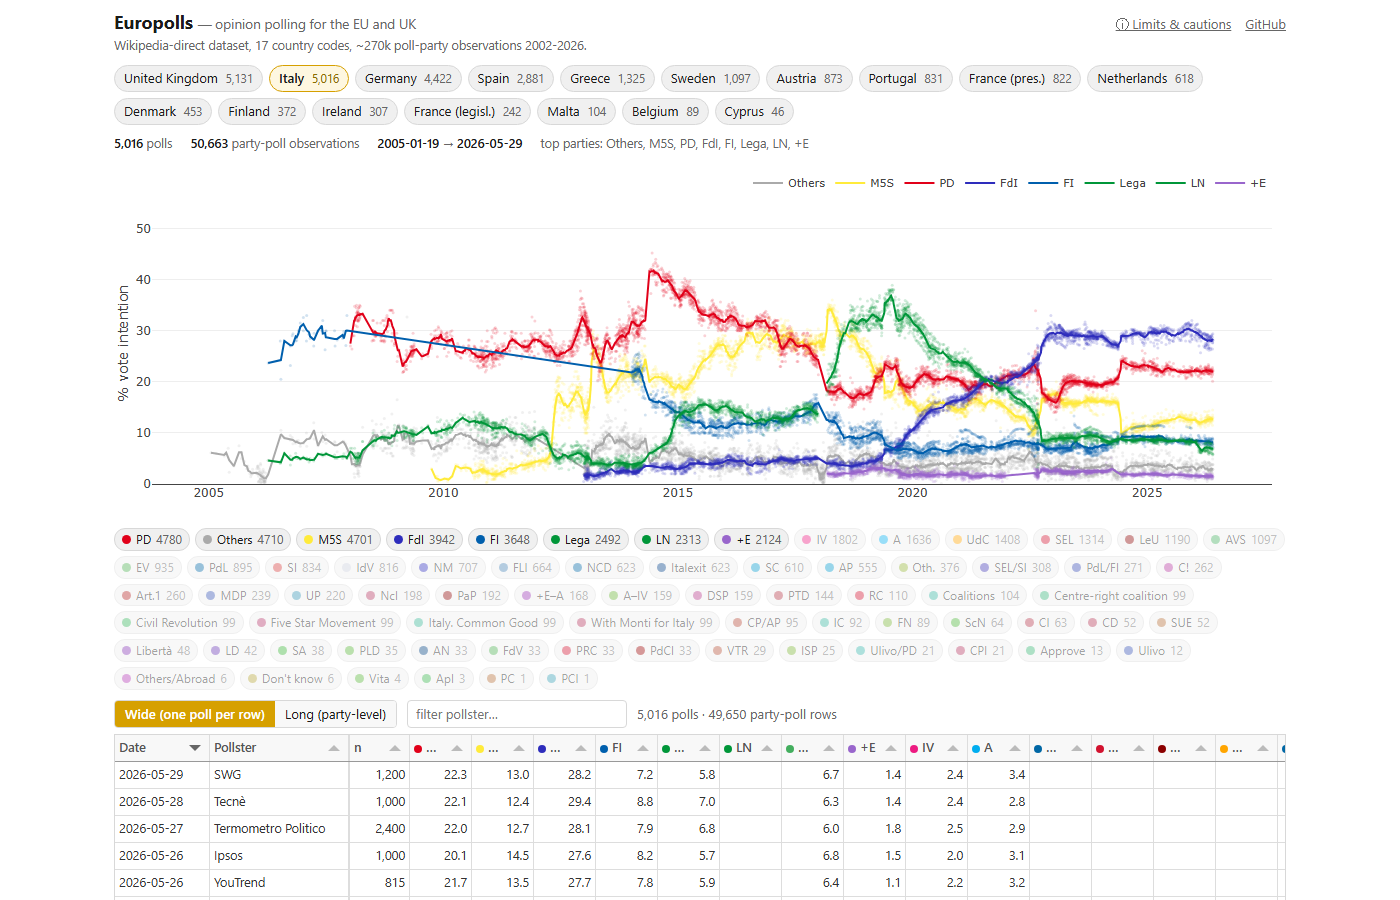
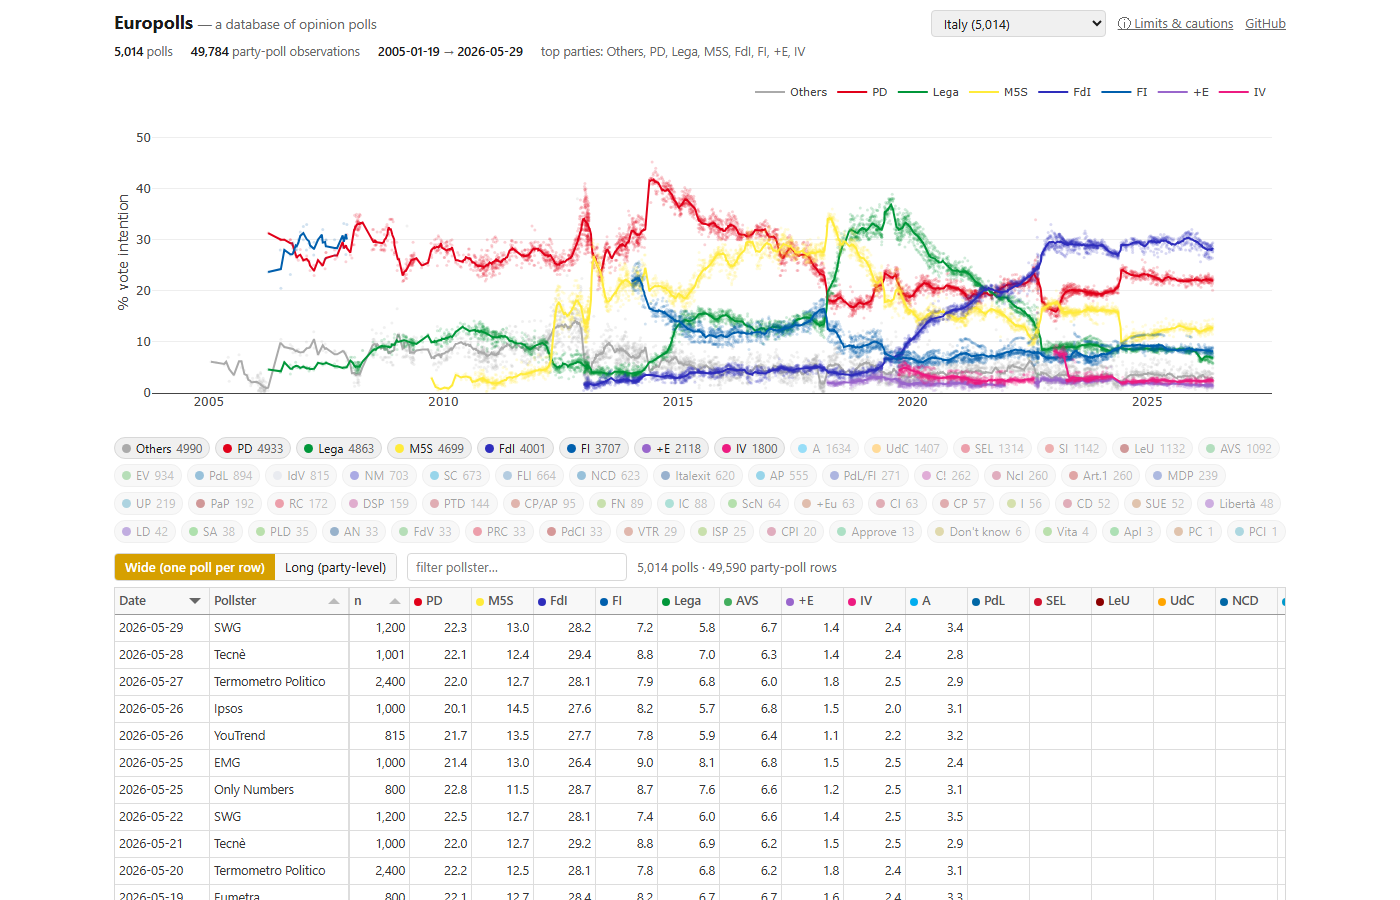
projects: refresh europolls blurb and screenshot
Updated to reflect expanded coverage (32 countries, ~33k polls, ~296k
party-poll observations) and Party Facts harmonization.

diff --git a/projects.md b/projects.md
@@ -12,7 +12,7 @@ permalink: /projects
   </div>
   <div class="project-body">
     <h2>europolls</h2>
-    <p>Browser-based dataset of national voting-intention polls for EU member states and the UK, built directly from Wikipedia's per-country poll tables. Roughly 270k poll-party observations across 17 country codes spanning 2002–2026, exposed both wide (one poll per row) and long (party-level) with pollster filtering and an interactive time-series chart. No backend — the page fetches and parses Wikipedia HTML client-side.</p>
+    <p>Wikipedia-direct dataset of national voting-intention polls for 32 European countries (EU-27 plus the UK, Norway, Iceland, and Switzerland). Roughly 33k polls and 296k party-poll observations from 2002 onward, with party-name harmonization via Party Facts IDs. The browser front-end fetches and parses Wikipedia HTML client-side; no backend.</p>
     <p class="project-links">
       <a href="https://gfrt0.github.io/europolls/" target="_blank">live site</a>
       <span class="nav-sep">·</span>